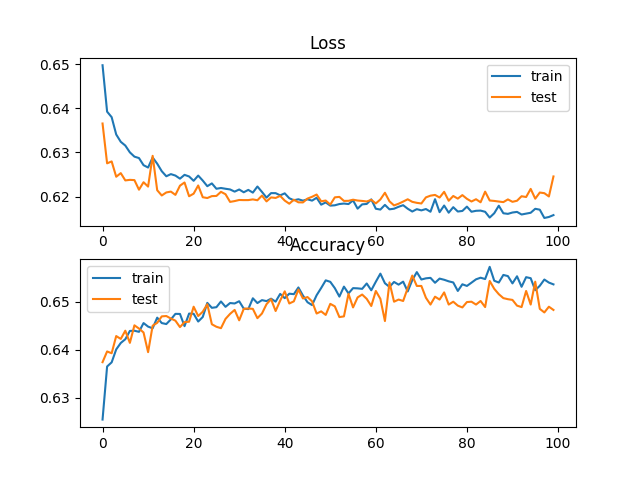
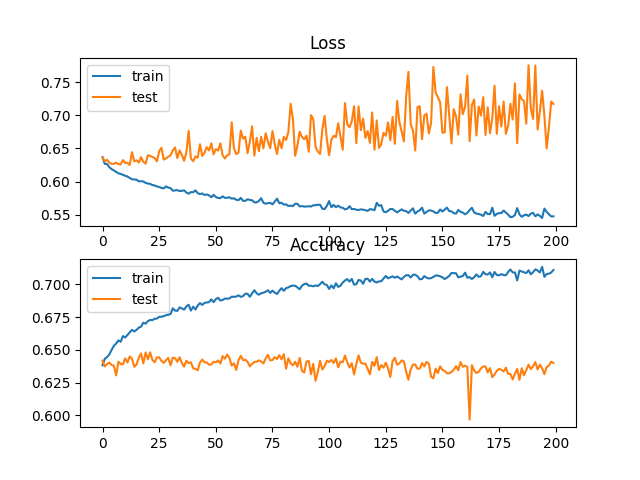
improved parameters

diff --git a/extract_features.py b/extract_features.py
@@ -11,22 +11,20 @@ def extract_mfccs(waveforms, settings, mode=None):
         mfccs = []
         fs = waveform[0]
         x = waveform[1]
-        frame_length = 512
-        frame_step = 256
-        for pos in range(0, (len(x)-frame_step), frame_step):
-            xslice = x[pos:pos+frame_length]
-            if len(xslice) < 512:
-                padding = [0 for n in list(range(0,frame_length-len(xslice)))]
+        for pos in range(0, (len(x)-settings.frame_step), settings.frame_step):
+            xslice = x[pos:pos+settings.frame_length]
+            if len(xslice) < settings.frame_length:
+                padding = [0 for n in list(range(0,settings.frame_length-len(xslice)))]
                 xslice = np.concatenate((xslice, np.array(padding)))
-            xw = xslice * pysptk.blackman(frame_length)
-            ext_mfcc = pysptk.sptk.mfcc(xw, fs=fs, order=12)
+            xw = xslice * pysptk.blackman(settings.frame_length)
+            ext_mfcc = pysptk.sptk.mfcc(xw, fs=fs, order=24, num_filterbanks=24*2)
             mfccs.append(ext_mfcc)
 
         # Accumulate sentence level mfccs and length
         all_lengths.append(len(mfccs))
         all_mfccs.append(mfccs)
 
-    print 'mfccs sizes', all_lengths # To check upsample_alignment
+    #print 'mfccs sizes', all_lengths # To check upsample_alignment
     max_T = max(all_lengths)+2 # just in case
     # Do padding given max_T
     padded_mfccs = [np.pad(np.array(m), ((0, max_T-np.array(m).shape[0]), (0, 0)), 'constant') for m in all_mfccs]

diff --git a/train.py b/train.py
@@ -31,6 +31,7 @@ file_list = os.listdir(settings.wav_folder)
 #TODO: check that there are only wave files
 waveforms = load_waves(settings, file_list)
 mfccs, max_T, all_lengths = extract_mfccs(waveforms, settings) #TODO: what other features? intensity? HNR?
+# TODO: we could work with mels instead of mfccs
 # print mfccs.shape # (number of files, max_T, 12 coeff)
 alignments = load_labels(settings, file_list)
 targets = upsample_alignment(alignments, max_T, settings)
@@ -96,12 +97,13 @@ print (x_train.shape, y_train.shape, x_val.shape, y_val.shape, x_test.shape, y_t
 # Hyperparameters
 batch_size = settings.batch_size
 dropout_rate = settings.dropout_rate
+learning_rate = settings.learning_rate
 n_feats = x_train.shape[1]
 epochs = settings.epochs
 nn_type = settings.nn_type # feed_forward only one supported right now
 
 # build model
-model = build_feedforward(n_feats, dropout_rate)
+model = build_feedforward(n_feats, dropout_rate, learning_rate)
 # train model
 history = model.fit(x_train, y_train, validation_data=(x_val, y_val), epochs=epochs, verbose=2, batch_size=batch_size)
 # evaluate model

diff --git a/net_architectures.py b/net_architectures.py
@@ -1,14 +1,17 @@
 from keras.models import Sequential
 from keras.layers import Dense, Dropout
+from keras.optimizers import Adam
+from keras import regularizers
 
-def build_feedforward(n_feats, dropout_rate):
+def build_feedforward(n_feats, dropout_rate, learning_rate):
     model = Sequential()
-    model.add(Dense(36, input_dim=n_feats, activation='tanh'))
+    model.add(Dense(124, input_dim=n_feats, activation='tanh'))
     model.add(Dropout(dropout_rate))
     model.add(Dense(24, activation='relu'))
-    model.add(Dense(36, activation='tanh'))
+    model.add(Dense(124, activation='tanh'))
     model.add(Dropout(dropout_rate))
     model.add(Dense(2, activation='hard_sigmoid'))
     # loss and optimizer
-    model.compile(loss='binary_crossentropy', optimizer='adam', metrics=['accuracy'])
+    opt = Adam(lr=learning_rate, beta_1=0.9, beta_2=0.999, epsilon=None, decay=0.0, amsgrad=False)
+    model.compile(loss='binary_crossentropy', optimizer=opt, metrics=['accuracy'])
     return model

diff --git a/analyse_sentence.py b/analyse_sentence.py
@@ -44,5 +44,5 @@ for sentence in range(0, x_test.shape[0]):
     sample_t = 0
     for frame in predictions:
         print (sample_t, frame)
-        time = float(settings.sample_frame_length-settings.frame_step) / float(settings.samplerate)
+        time = float(settings.frame_length-settings.frame_step) / float(settings.samplerate)
         sample_t += time
